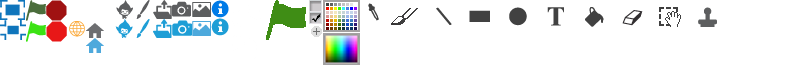
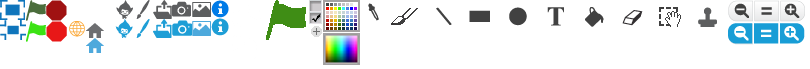
Add zoom buttons

diff --git a/pixie.js b/pixie.js
@@ -4571,6 +4571,11 @@
     this.addBitmapTool('select', T('Select'));
     this.addBitmapTool('duplicate', T('Select and duplicate'));
 
+    this.elSettings.appendChild(this.elZoom = el('image-editor-zoom'));
+    this.elZoom.appendChild(this.elZoomOut = el('button', 'zoom-button zoom-out'));
+    this.elZoom.appendChild(this.elZoomDefault = el('button', 'zoom-button zoom-default'));
+    this.elZoom.appendChild(this.elZoomIn = el('button', 'zoom-button zoom-in'));
+
     this.elSettings.appendChild(this.elColorPicker = el('color-picker'));
     this.elColorPicker.appendChild(this.elSwatchButton = el('button', 'color-picker-swatch-button wheel'));
     this.elColorPicker.appendChild(this.elColors = el('color-picker-colors'));

diff --git a/pixie.css b/pixie.css
@@ -808,6 +808,31 @@ button::-moz-focus-inner {
   height: 12px;
   margin: 0 2px 2px 0;
 }
+.image-editor-zoom {
+  position: absolute;
+  top: 4px;
+  right: 4px;
+}
+.zoom-button {
+  margin: 0;
+  padding: 0;
+  border: 0;
+  width: 25px;
+  height: 22px;
+  background: url(assets.png);
+}
+.zoom-button:hover {
+  background-position-y: -23px;
+}
+.zoom-out {
+  background-position: -728px 0;
+}
+.zoom-default {
+  background-position: -754px 0;
+}
+.zoom-in {
+  background-position: -780px 0;
+}
 .bitmap-tools {
   position: absolute;
   top: 39px;
